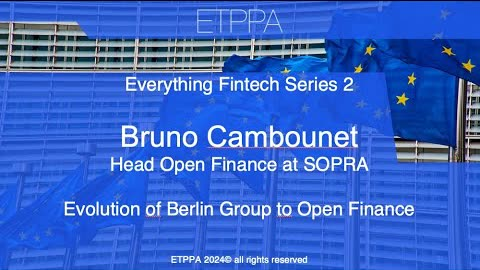
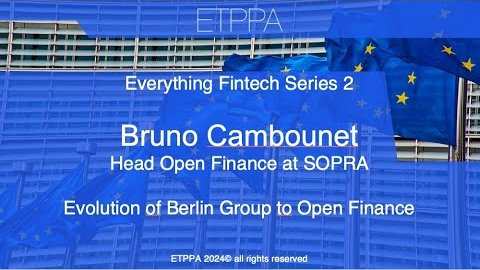
Media: TPT follow-the-show links and new link, Weimert poster in the ETPPA style, ETPPA posters without black bars, nav labels
Claude-Session: https://claude.ai/code/session_012ZRZ6GaaFVVi3jHeFa15GL

diff --git a/src/assets/css/site.css b/src/assets/css/site.css
@@ -288,3 +288,8 @@ strong, b { font-weight: 600; }
 .clips-vertical { grid-template-columns: repeat(auto-fill, minmax(9rem, 12rem)); }
 .clips:not(.clips-vertical) .video-own { aspect-ratio: 16 / 9; object-fit: contain; }
 @media (max-width: 40rem) { .gallery-small { grid-template-columns: repeat(2, 1fr); gap: 0.8rem; } .clips-vertical { grid-template-columns: repeat(2, 1fr); } }
+.follow { display: flex; flex-wrap: wrap; gap: 0.6rem; margin: 0 0 1.2rem; max-width: 100% !important; }
+.follow a { display: inline-flex; width: 2.75rem; height: 2.75rem; align-items: center; justify-content: center; background: var(--navy, #1f3864); border-radius: 0.25rem; }
+.follow a:hover, .follow a:focus-visible { background: var(--gold, #f5b400); }
+.follow svg { width: 1.5rem; height: 1.5rem; fill: #fff; }
+.prose .follow a { text-decoration: none; border: 0; }

diff --git a/src/media.md b/src/media.md
@@ -9,7 +9,7 @@ Appearances in T.V, Radio, Podcasts and other media, This section is not includi
 
 <nav aria-label="Jump to section" class="years">
 
-[Sample highlights](#highlights) [Sample talks, interviews and webinars](#talks) [APC HardTalks and round tables](#apc) [ETPPA interviews](#etppa) [The Payments Trilogue](#tpt) [Short clips](#clips) [Further press, radio, TV and podcasts](#press)
+[Sample highlights](#highlights) [Further talks, interviews and webinars](#talks) [Asia Payments Connect](#apc) [ETPPA interviews](#etppa) [The Payments Trilogue](#tpt) [Short clips](#clips) [Further press, radio, TV and podcasts](#press)
 
 </nav>
 
@@ -25,7 +25,7 @@ Appearances in T.V, Radio, Podcasts and other media, This section is not includi
 <figure id="istanbul-b2b-keynote"><div class="video yt"><a href="https://www.youtube.com/watch?v=6XFpVBKw7Mc" data-yt="6XFpVBKw7Mc" title="Keynote at the FinTech Istanbul B2B Connect Summit, October 2023"><img src="/assets/video/yt/fintech-istanbul-keynote-2023.jpg" alt="" loading="lazy" width="960" height="540"><span class="yt-play">Play: Keynote at the FinTech Istanbul B2B Connect Summit, October 2023</span><span class="yt-note">Plays from YouTube</span></a></div><figcaption>Keynote at the FinTech Istanbul B2B Connect Summit, October 2023 (16 min)</figcaption></figure>
 </div>
 
-<h2 id="talks">Sample talks, interviews and webinars</h2>
+<h2 id="talks">Further talks, interviews and webinars</h2>
 
 <div class="gallery">
 <figure><div class="video yt"><a href="https://www.youtube.com/watch?v=OXW94WJ3RbM" data-yt="OXW94WJ3RbM" title="Closing speech on CBDC and Digital Currencies, Payments Nordics, June 2022"><img src="/assets/video/yt/payments-nordics-cbdc-2022.jpg" alt="" loading="lazy" width="960" height="540"><span class="yt-play">Play: Closing speech on CBDC and Digital Currencies, Payments Nordics, June 2022</span><span class="yt-note">Plays from YouTube</span></a></div><figcaption>Closing speech on CBDC and Digital Currencies, Payments Nordics, June 2022 (45 min)</figcaption></figure>
@@ -38,7 +38,7 @@ Appearances in T.V, Radio, Podcasts and other media, This section is not includi
 <figure><video class="video-own" controls preload="none" poster="/assets/video/salmony-interview-amsterdam-2017.jpg" width="1280" height="720"><source src="/assets/video/salmony-interview-amsterdam-2017.mp4" type="video/mp4"></video><figcaption>Interview on PSD2, Future of Payments, Amsterdam 2017 (2 min)</figcaption></figure>
 </div>
 
-<h2 id="apc">APC HardTalks and round tables</h2>
+<h2 id="apc">Asia Payments Connect (APC) HardTalks and round tables</h2>
 
 As member of the Asia Payments Connect (APC) Global Expert Council, Michael Salmony hosted the APC HardTalks and moderated APC panels and expert round tables in 2020-21, with guests such as the CEO of Jumio, Bo Harald, SAS, Ekata and Paul Brisk, on Open Banking, digital identity, data governance, CBDC and ISO 20022 ([APC site](https://asiapaymentsconnect.com/interviews-blogs/)).
 
@@ -57,7 +57,7 @@ As member of the Asia Payments Connect (APC) Global Expert Council, Michael Salm
 
 <h2 id="etppa">ETPPA “Everything FinTech” interviews</h2>
 
-Host of the ETPPA video interview series [“Everything FinTech”](https://www.youtube.com/@etppa_channel) on YouTube, with guests from the ECB, the World Bank, EPI, the Berlin Group, Tink, Trustly, Form3 and others.
+Host of the ETPPA video interview series “Everything FinTech” on YouTube, with guests from the ECB, the World Bank, EPI, the Berlin Group, Tink, Trustly, Form3 and others.
 
 <div class="gallery gallery-small">
 <figure><div class="video yt"><a href="https://www.youtube.com/watch?v=VpGZr7jU9UM" data-yt="VpGZr7jU9UM" title="Ralf Ohlhausen: introducing ETPPA (2023)"><img src="/assets/video/yt/etppa-VpGZr7jU9UM.jpg" alt="" loading="lazy" width="480" height="270"><span class="yt-play">Play: Ralf Ohlhausen: introducing ETPPA (2023)</span><span class="yt-note">Plays from YouTube</span></a></div><figcaption>Ralf Ohlhausen: introducing ETPPA (2023, 12 min)</figcaption></figure>
@@ -87,7 +87,10 @@ Host of the ETPPA video interview series [“Everything FinTech”](https://www.
 
 <h2 id="tpt">The Payments Trilogue</h2>
 
-Co-host of [The Payments Trilogue](https://www.youtube.com/@ThePaymentsTrilogue) podcast series, with all episodes on YouTube  
+Co-host of [The Payments Trilogue](https://thepaymentstrilogue.com/) podcast series, with all episodes on YouTube, podcast platforms and social media:
+
+<div class="follow"><a href="https://www.youtube.com/@ThePaymentsTrilogue" title="YouTube" aria-label="The Payments Trilogue on YouTube"><svg viewBox="0 0 24 24" aria-hidden="true"><path d="M23.498 6.186a3.016 3.016 0 0 0-2.122-2.136C19.505 3.545 12 3.545 12 3.545s-7.505 0-9.377.505A3.017 3.017 0 0 0 .502 6.186C0 8.07 0 12 0 12s0 3.93.502 5.814a3.016 3.016 0 0 0 2.122 2.136c1.871.505 9.376.505 9.376.505s7.505 0 9.377-.505a3.015 3.015 0 0 0 2.122-2.136C24 15.93 24 12 24 12s0-3.93-.502-5.814zM9.545 15.568V8.432L15.818 12l-6.273 3.568z"/></svg></a><a href="https://open.spotify.com/show/6NIJNSHZhr6NEPNPR09geG" title="Spotify" aria-label="The Payments Trilogue on Spotify"><svg viewBox="0 0 24 24" aria-hidden="true"><path d="M12 0C5.4 0 0 5.4 0 12s5.4 12 12 12 12-5.4 12-12S18.66 0 12 0zm5.521 17.34c-.24.359-.66.48-1.021.24-2.82-1.74-6.36-2.101-10.561-1.141-.418.122-.779-.179-.899-.539-.12-.421.18-.78.54-.9 4.56-1.021 8.52-.6 11.64 1.32.42.18.479.659.301 1.02zm1.44-3.3c-.301.42-.841.6-1.262.3-3.239-1.98-8.159-2.58-11.939-1.38-.479.12-1.02-.12-1.14-.6-.12-.48.12-1.021.6-1.141C9.6 9.9 15 10.561 18.72 12.84c.361.181.54.78.241 1.2zm.12-3.36C15.24 8.4 8.82 8.16 5.16 9.301c-.6.179-1.2-.181-1.38-.721-.18-.601.18-1.2.72-1.381 4.26-1.26 11.28-1.02 15.721 1.621.539.3.719 1.02.419 1.56-.299.421-1.02.599-1.559.3z"/></svg></a><a href="https://podcasts.apple.com/podcast/id1768732855" title="Apple Podcasts" aria-label="The Payments Trilogue on Apple Podcasts"><svg viewBox="0 0 24 24" aria-hidden="true"><path d="M5.34 0A5.328 5.328 0 000 5.34v13.32A5.328 5.328 0 005.34 24h13.32A5.328 5.328 0 0024 18.66V5.34A5.328 5.328 0 0018.66 0zm6.525 2.568c2.336 0 4.448.902 6.056 2.587 1.224 1.272 1.912 2.619 2.264 4.392.12.59.12 2.2.007 2.864a8.506 8.506 0 01-3.24 5.296c-.608.46-2.096 1.261-2.336 1.261-.088 0-.096-.091-.056-.46.072-.592.144-.715.48-.856.536-.224 1.448-.874 2.008-1.435a7.644 7.644 0 002.008-3.536c.208-.824.184-2.656-.048-3.504-.728-2.696-2.928-4.792-5.624-5.352-.784-.16-2.208-.16-3 0-2.728.56-4.984 2.76-5.672 5.528-.184.752-.184 2.584 0 3.336.456 1.832 1.64 3.512 3.192 4.512.304.2.672.408.824.472.336.144.408.264.472.856.04.36.03.464-.056.464-.056 0-.464-.176-.896-.384l-.04-.03c-2.472-1.216-4.056-3.274-4.632-6.012-.144-.706-.168-2.392-.03-3.04.36-1.74 1.048-3.1 2.192-4.304 1.648-1.737 3.768-2.656 6.128-2.656zm.134 2.81c.409.004.803.04 1.106.106 2.784.62 4.76 3.408 4.376 6.174-.152 1.114-.536 2.03-1.216 2.88-.336.43-1.152 1.15-1.296 1.15-.023 0-.048-.272-.048-.603v-.605l.416-.496c1.568-1.878 1.456-4.502-.256-6.224-.664-.67-1.432-1.064-2.424-1.246-.64-.118-.776-.118-1.448-.008-1.02.167-1.81.562-2.512 1.256-1.72 1.704-1.832 4.342-.264 6.222l.413.496v.608c0 .336-.027.608-.06.608-.03 0-.264-.16-.512-.36l-.034-.011c-.832-.664-1.568-1.842-1.872-2.997-.184-.698-.184-2.024.008-2.72.504-1.878 1.888-3.335 3.808-4.019.41-.145 1.133-.22 1.814-.211zm-.13 2.99c.31 0 .62.06.844.178.488.253.888.745 1.04 1.259.464 1.578-1.208 2.96-2.72 2.254h-.015c-.712-.331-1.096-.956-1.104-1.77 0-.733.408-1.371 1.112-1.745.224-.117.534-.176.844-.176zm-.011 4.728c.988-.004 1.706.349 1.97.97.198.464.124 1.932-.218 4.302-.232 1.656-.36 2.074-.68 2.356-.44.39-1.064.498-1.656.288h-.003c-.716-.257-.87-.605-1.164-2.644-.341-2.37-.416-3.838-.218-4.302.262-.616.974-.966 1.97-.97z"/></svg></a><a href="https://music.amazon.com/podcasts/adfbc5dc-dc6d-4189-b465-ef819f19d8b4/the-payments-trilogue" title="Amazon Music" aria-label="The Payments Trilogue on Amazon Music"><svg viewBox="0 0 24 24" aria-hidden="true"><path d="M.045 18.02c.072-.116.187-.124.348-.022 3.636 2.11 7.594 3.166 11.87 3.166 2.852 0 5.668-.533 8.447-1.595l.315-.14c.138-.06.234-.1.293-.13.226-.088.39-.046.525.13.12.174.09.336-.12.48-.256.19-.6.41-1.006.654-1.244.743-2.64 1.316-4.185 1.726a17.617 17.617 0 01-10.951-.577 17.88 17.88 0 01-5.43-3.35c-.1-.074-.151-.15-.151-.22 0-.047.021-.09.051-.13zm6.565-6.218c0-1.005.247-1.863.743-2.577.495-.71 1.17-1.25 2.04-1.615.796-.335 1.756-.575 2.912-.72.39-.046 1.033-.103 1.92-.174v-.37c0-.93-.105-1.558-.3-1.875-.302-.43-.78-.65-1.44-.65h-.182c-.48.046-.896.196-1.246.46-.35.27-.575.63-.675 1.096-.06.3-.206.465-.435.51l-2.52-.315c-.248-.06-.372-.18-.372-.39 0-.046.007-.09.022-.15.247-1.29.855-2.25 1.82-2.88.976-.616 2.1-.975 3.39-1.05h.54c1.65 0 2.957.434 3.888 1.29.135.15.27.3.405.48.12.165.224.314.283.45.075.134.15.33.195.57.06.254.105.42.135.51.03.104.062.3.076.615.01.313.02.493.02.553v5.28c0 .376.06.72.165 1.036.105.313.21.54.315.674l.51.674c.09.136.136.256.136.36 0 .12-.06.226-.18.314-1.2 1.05-1.86 1.62-1.963 1.71-.165.135-.375.15-.63.045a6.062 6.062 0 01-.526-.496l-.31-.347a9.391 9.391 0 01-.317-.42l-.3-.435c-.81.886-1.603 1.44-2.4 1.665-.494.15-1.093.227-1.83.227-1.11 0-2.04-.343-2.76-1.034-.72-.69-1.08-1.665-1.08-2.94l-.05-.076zm3.753-.438c0 .566.14 1.02.425 1.364.285.34.675.512 1.155.512.045 0 .106-.007.195-.02.09-.016.134-.023.166-.023.614-.16 1.08-.553 1.424-1.178.165-.28.285-.58.36-.91.09-.32.12-.59.135-.8.015-.195.015-.54.015-1.005v-.54c-.84 0-1.484.06-1.92.18-1.275.36-1.92 1.17-1.92 2.43l-.035-.02zm9.162 7.027c.03-.06.075-.11.132-.17.362-.243.714-.41 1.05-.5a8.094 8.094 0 011.612-.24c.14-.012.28 0 .41.03.65.06 1.05.168 1.172.33.063.09.099.228.099.39v.15c0 .51-.149 1.11-.424 1.8-.278.69-.664 1.248-1.156 1.68-.073.06-.14.09-.197.09-.03 0-.06 0-.09-.012-.09-.044-.107-.12-.064-.24.54-1.26.806-2.143.806-2.64 0-.15-.03-.27-.087-.344-.145-.166-.55-.257-1.224-.257-.243 0-.533.016-.87.046-.363.045-.7.09-1 .135-.09 0-.148-.014-.18-.044-.03-.03-.036-.047-.02-.077 0-.017.006-.03.02-.063v-.06z"/></svg></a><a href="https://www.linkedin.com/company/thepaymentstrilogue/" title="LinkedIn" aria-label="The Payments Trilogue on LinkedIn"><svg viewBox="0 0 24 24" aria-hidden="true"><path d="M20.447 20.452h-3.554v-5.569c0-1.328-.027-3.037-1.852-3.037-1.853 0-2.136 1.445-2.136 2.939v5.667H9.351V9h3.414v1.561h.046c.477-.9 1.637-1.85 3.37-1.85 3.601 0 4.267 2.37 4.267 5.455v6.286zM5.337 7.433c-1.144 0-2.063-.926-2.063-2.065 0-1.138.92-2.063 2.063-2.063 1.14 0 2.064.925 2.064 2.063 0 1.139-.925 2.065-2.064 2.065zm1.782 13.019H3.555V9h3.564v11.452zM22.225 0H1.771C.792 0 0 .774 0 1.729v20.542C0 23.227.792 24 1.771 24h20.451C23.2 24 24 23.227 24 22.271V1.729C24 .774 23.2 0 22.222 0h.003z"/></svg></a><a href="https://x.com/ThePaymentsTri" title="X" aria-label="The Payments Trilogue on X"><svg viewBox="0 0 24 24" aria-hidden="true"><path d="M14.234 10.162 22.977 0h-2.072l-7.591 8.824L7.251 0H.258l9.168 13.343L.258 24H2.33l8.016-9.318L16.749 24h6.993zm-2.837 3.299-.929-1.329L3.076 1.56h3.182l5.965 8.532.929 1.329 7.754 11.09h-3.182z"/></svg></a><a href="https://www.instagram.com/thepaymentstrilogue/" title="Instagram" aria-label="The Payments Trilogue on Instagram"><svg viewBox="0 0 24 24" aria-hidden="true"><path d="M7.0301.084c-1.2768.0602-2.1487.264-2.911.5634-.7888.3075-1.4575.72-2.1228 1.3877-.6652.6677-1.075 1.3368-1.3802 2.127-.2954.7638-.4956 1.6365-.552 2.914-.0564 1.2775-.0689 1.6882-.0626 4.947.0062 3.2586.0206 3.6671.0825 4.9473.061 1.2765.264 2.1482.5635 2.9107.308.7889.72 1.4573 1.388 2.1228.6679.6655 1.3365 1.0743 2.1285 1.38.7632.295 1.6361.4961 2.9134.552 1.2773.056 1.6884.069 4.9462.0627 3.2578-.0062 3.668-.0207 4.9478-.0814 1.28-.0607 2.147-.2652 2.9098-.5633.7889-.3086 1.4578-.72 2.1228-1.3881.665-.6682 1.0745-1.3378 1.3795-2.1284.2957-.7632.4966-1.636.552-2.9124.056-1.2809.0692-1.6898.063-4.948-.0063-3.2583-.021-3.6668-.0817-4.9465-.0607-1.2797-.264-2.1487-.5633-2.9117-.3084-.7889-.72-1.4568-1.3876-2.1228C21.2982 1.33 20.628.9208 19.8378.6165 19.074.321 18.2017.1197 16.9244.0645 15.6471.0093 15.236-.005 11.977.0014 8.718.0076 8.31.0215 7.0301.0839m.1402 21.6932c-1.17-.0509-1.8053-.2453-2.2287-.408-.5606-.216-.96-.4771-1.3819-.895-.422-.4178-.6811-.8186-.9-1.378-.1644-.4234-.3624-1.058-.4171-2.228-.0595-1.2645-.072-1.6442-.079-4.848-.007-3.2037.0053-3.583.0607-4.848.05-1.169.2456-1.805.408-2.2282.216-.5613.4762-.96.895-1.3816.4188-.4217.8184-.6814 1.3783-.9003.423-.1651 1.0575-.3614 2.227-.4171 1.2655-.06 1.6447-.072 4.848-.079 3.2033-.007 3.5835.005 4.8495.0608 1.169.0508 1.8053.2445 2.228.408.5608.216.96.4754 1.3816.895.4217.4194.6816.8176.9005 1.3787.1653.4217.3617 1.056.4169 2.2263.0602 1.2655.0739 1.645.0796 4.848.0058 3.203-.0055 3.5834-.061 4.848-.051 1.17-.245 1.8055-.408 2.2294-.216.5604-.4763.96-.8954 1.3814-.419.4215-.8181.6811-1.3783.9-.4224.1649-1.0577.3617-2.2262.4174-1.2656.0595-1.6448.072-4.8493.079-3.2045.007-3.5825-.006-4.848-.0608M16.953 5.5864A1.44 1.44 0 1 0 18.39 4.144a1.44 1.44 0 0 0-1.437 1.4424M5.8385 12.012c.0067 3.4032 2.7706 6.1557 6.173 6.1493 3.4026-.0065 6.157-2.7701 6.1506-6.1733-.0065-3.4032-2.771-6.1565-6.174-6.1498-3.403.0067-6.156 2.771-6.1496 6.1738M8 12.0077a4 4 0 1 1 4.008 3.9921A3.9996 3.9996 0 0 1 8 12.0077"/></svg></a><a href="https://www.facebook.com/people/The-Payments-Trilogue/61565906042019/" title="Facebook" aria-label="The Payments Trilogue on Facebook"><svg viewBox="0 0 24 24" aria-hidden="true"><path d="M9.101 23.691v-7.98H6.627v-3.667h2.474v-1.58c0-4.085 1.848-5.978 5.858-5.978.401 0 .955.042 1.468.103a8.68 8.68 0 0 1 1.141.195v3.325a8.623 8.623 0 0 0-.653-.036 26.805 26.805 0 0 0-.733-.009c-.707 0-1.259.096-1.675.309a1.686 1.686 0 0 0-.679.622c-.258.42-.374.995-.374 1.752v1.297h3.919l-.386 2.103-.287 1.564h-3.246v8.245C19.396 23.238 24 18.179 24 12.044c0-6.627-5.373-12-12-12s-12 5.373-12 12c0 5.628 3.874 10.35 9.101 11.647Z"/></svg></a><a href="https://anchor.fm/s/f9eb1ac8/podcast/rss" title="RSS" aria-label="The Payments Trilogue on RSS"><svg viewBox="0 0 24 24" aria-hidden="true"><path d="M19.199 24C19.199 13.467 10.533 4.8 0 4.8V0c13.165 0 24 10.835 24 24h-4.801zM3.291 17.415c1.814 0 3.293 1.479 3.293 3.295 0 1.813-1.485 3.29-3.301 3.29C1.47 24 0 22.526 0 20.71s1.475-3.294 3.291-3.295zM15.909 24h-4.665c0-6.169-5.075-11.245-11.244-11.245V8.09c8.727 0 15.909 7.184 15.909 15.91z"/></svg></a></div>
+
 <img src="/assets/uploads/2025/02/tri-254x300.jpg" loading="lazy" width="254" height="300">
 
 <h2 id="clips">Short clips</h2>
